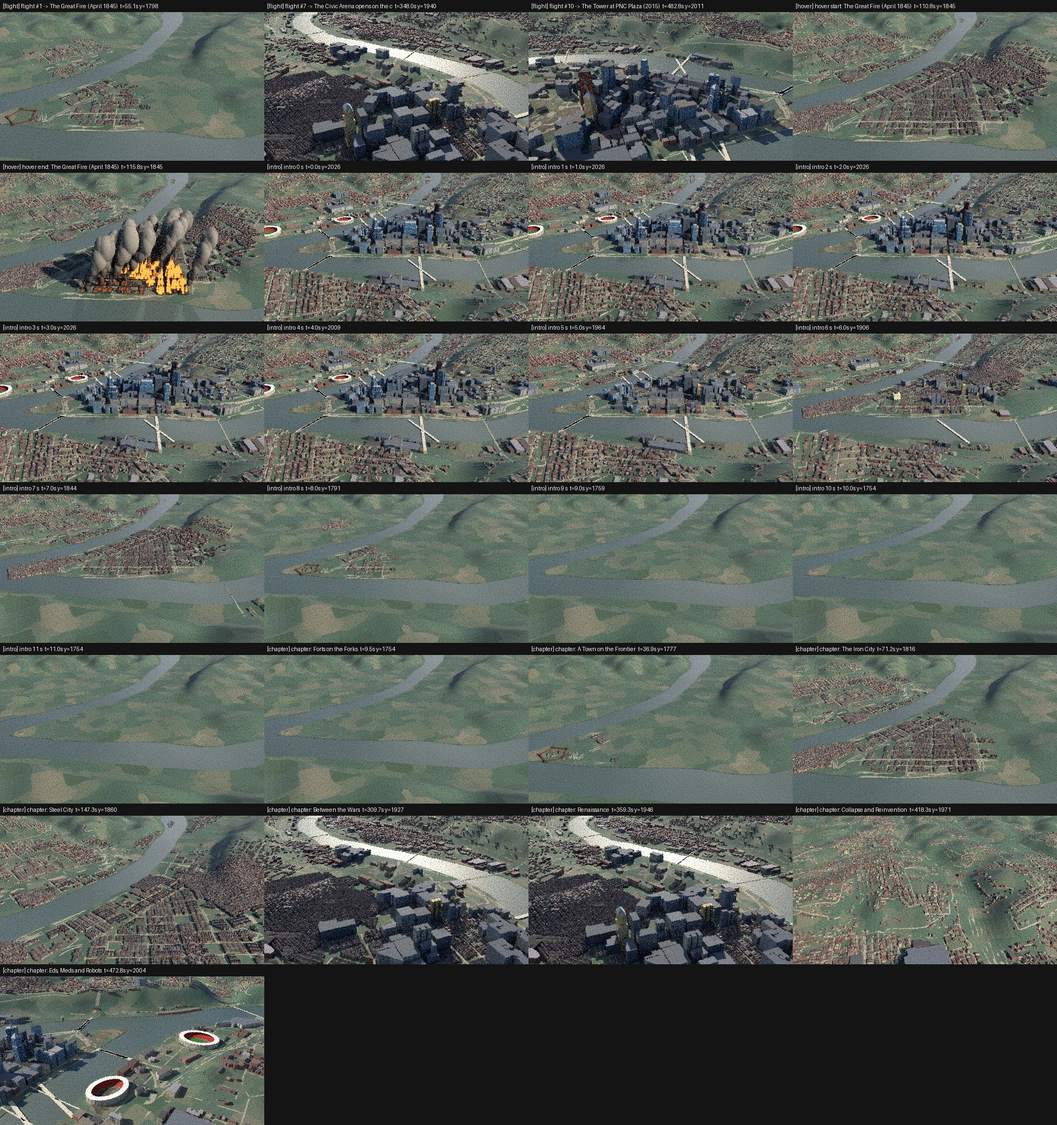
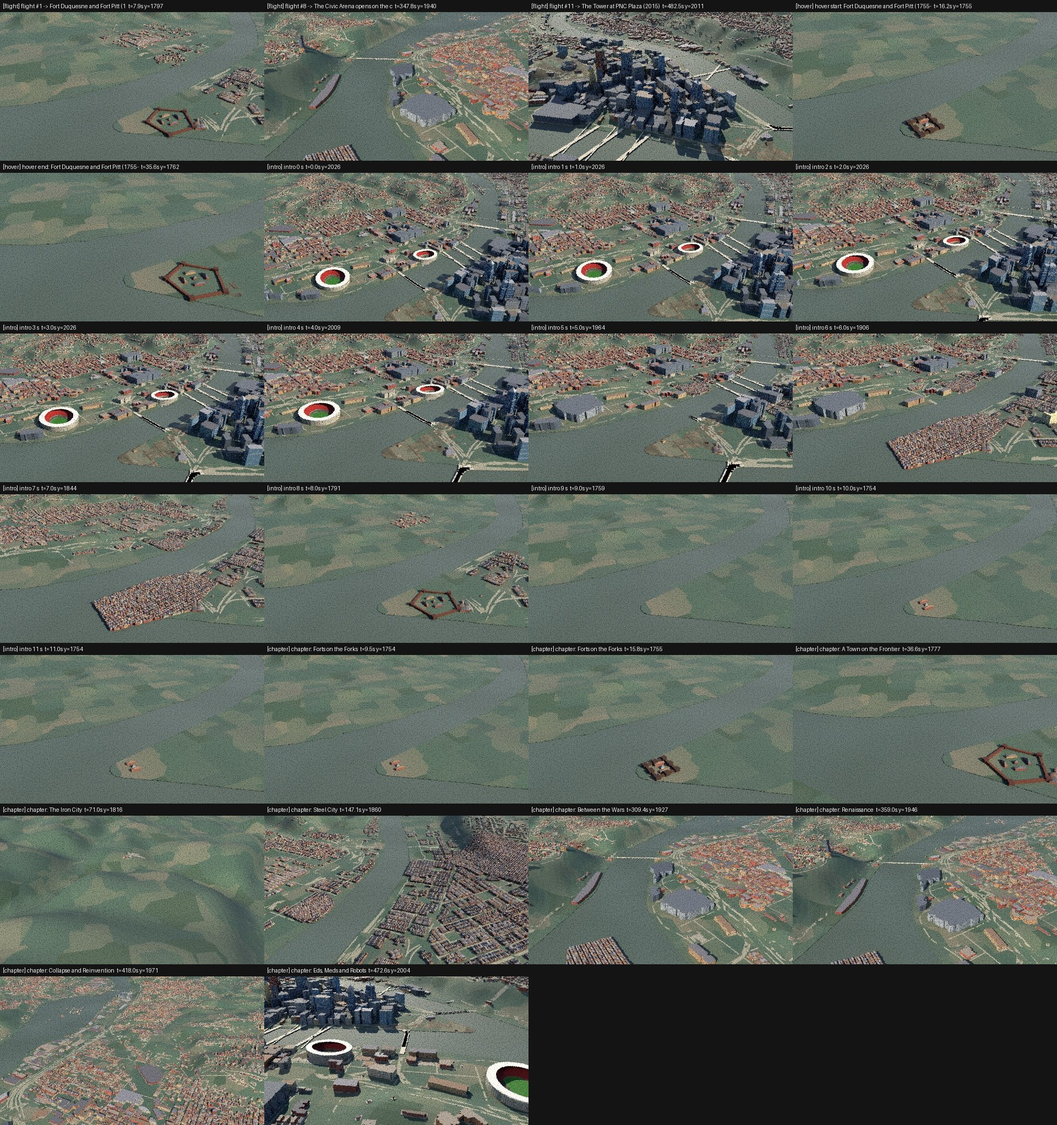
Pittsburgh: gate dossier run after fx2+colour2+cam2 (plots pending)

diff --git a/cities/pittsburgh/gate/DOSSIER.md b/cities/pittsburgh/gate/DOSSIER.md
@@ -1,54 +1,53 @@
 # GO dossier: Pittsburgh (pittsburgh)
 
-Generated by `python -m kit gate pittsburgh` on 2026-11-17 14:03 in 3127 s. **Overall: FAIL** (gate checks, including every kit qa FAIL) / kit qa alone: **FAIL**. No pod before a written GO (R3).
+Generated by `python -m kit gate pittsburgh` on 2026-11-17 15:40 in 3301 s. **Overall: FAIL** (gate checks, including every kit qa FAIL) / kit qa alone: **WARN**. No pod before a written GO (R3).
 
 ## Verdict (R2)
 
-- **FAIL** qa a) date con fonte: senza src valido (e conf != low): history.lost[0] Fort Duquesne barracks; history.lost[1] Fort Duquesne barracks; history.lost[2] Fort Duquesne storehouse; history.lost[3] Fort Pitt barracks; history.lost[4] Fort Pitt barracks; history.lost[5] Fort Pitt barracks; history.lost[6] Fort Pitt barracks; history.lost[7] Fort Pitt magazine
-- **PASS** R2 camera distance: median 1730 m (35 mm equiv.), minimum 1200; refs: Copenhagen 1397, Paris 1427
-- **PASS** R2 look angle: p95 33 deg (limit 45), 98.1% of keys under it, max 87 deg
+- **PASS** R2 camera distance: median 1745 m (35 mm equiv.), minimum 1200; refs: Copenhagen 1397, Paris 1427
+- **PASS** R2 look angle: p95 34 deg (limit 45), 98.5% of keys under it, max 85 deg
 - **PASS** R2 frozen-counter flights: 0 flight(s) >= 12 s under 0.4 yr/s
-- **PASS** plots: plots.png
-- **PASS** contact sheet: 25/25 real local frames: contact_sheet.jpg
+- **FAIL** plots not produced: No module named 'matplotlib'
+- **PASS** contact sheet: 26/26 real local frames: contact_sheet.jpg
 - **WARN** packaging draft: the left frame shows year 2026, the label says 1754: the frame must show the first year (Lyon's mistake); city json has no cover.shots: frames are a fallback (first hover / last flight second), define cover.shots
 - **WARN** banner: branch claude/pittsburgh-int has no upstream: not pushed
-- **WARN** banner: 8 uncommitted changes that the pod will not see (e.g. M cities/pittsburgh/gate/contact_sheet.jpg)
+- **WARN** banner: 1 uncommitted changes that the pod will not see (e.g. M cities/pittsburgh/gate/contact_sheet.jpg)
 
 ## 1. Contact sheet (real local CPU frames, 480x270)
 
 ![contact](contact_sheet.jpg)
 
-Frames: flight:flight #1 -> The Great Fire (April 1845)@55.1s; flight:flight #7 -> The Civic Arena opens on the c@348.0s; flight:flight #10 -> The Tower at PNC Plaza (2015)@482.8s; hover:hover start: The Great Fire (April 1845)@110.8s; hover:hover end: The Great Fire (April 1845)@115.8s; intro:intro 0 s@0.0s; intro:intro 1 s@1.0s; intro:intro 2 s@2.0s; intro:intro 3 s@3.0s; intro:intro 4 s@4.0s; intro:intro 5 s@5.0s; intro:intro 6 s@6.0s; intro:intro 7 s@7.0s; intro:intro 8 s@8.0s; intro:intro 9 s@9.0s; intro:intro 10 s@10.0s; intro:intro 11 s@11.0s; chapter:chapter: Forts on the Forks@9.5s; chapter:chapter: A Town on the Frontier@36.9s; chapter:chapter: The Iron City@71.2s; chapter:chapter: Steel City@147.3s; chapter:chapter: Between the Wars@309.7s; chapter:chapter: Renaissance@359.3s; chapter:chapter: Collapse and Reinvention@418.3s; chapter:chapter: Eds, Meds and Robots@472.8s
+Frames: flight:flight #1 -> Fort Duquesne and Fort Pitt (1@7.9s; flight:flight #8 -> The Civic Arena opens on the c@347.8s; flight:flight #11 -> The Tower at PNC Plaza (2015)@482.5s; hover:hover start: Fort Duquesne and Fort Pitt (1755-@16.2s; hover:hover end: Fort Duquesne and Fort Pitt (1755-@35.6s; intro:intro 0 s@0.0s; intro:intro 1 s@1.0s; intro:intro 2 s@2.0s; intro:intro 3 s@3.0s; intro:intro 4 s@4.0s; intro:intro 5 s@5.0s; intro:intro 6 s@6.0s; intro:intro 7 s@7.0s; intro:intro 8 s@8.0s; intro:intro 9 s@9.0s; intro:intro 10 s@10.0s; intro:intro 11 s@11.0s; chapter:chapter: Forts on the Forks@9.5s; chapter:chapter: Forts on the Forks@15.8s; chapter:chapter: A Town on the Frontier@36.6s; chapter:chapter: The Iron City@71.0s; chapter:chapter: Steel City@147.1s; chapter:chapter: Between the Wars@309.4s; chapter:chapter: Renaissance@359.0s; chapter:chapter: Collapse and Reinvention@418.0s; chapter:chapter: Eds, Meds and Robots@472.6s
 
 ## 2. Camera altitude, distance, pitch
 
-![plots](plots.png)
+**NOT PRODUCED**
 
 ![path](drone_path.png)
 
-Median distance 1730 m (>= 1200); pitch p95 33 deg (< 45); max pitch 87 deg.
+Median distance 1745 m (>= 1200); pitch p95 34 deg (< 45); max pitch 85 deg.
 
 ## 3. Flight table
 
 | # | start s | end s | dur s | years/s | median dist m | max alt m | max pitch deg | to | flag |
 |---|---|---|---|---|---|---|---|---|---|
-| 1 | 0.0 | 110.2 | 110.2 | 1.64 | 1717 | 1047 | 28 | The Great Fire (April 1845) | (opening) |
-| 2 | 116.2 | 135.2 | 19.0 | 0.64 | 1945 | 1003 | 28 | 939 factories (1857) |  |
-| 3 | 146.4 | 164.6 | 18.2 | 0.70 | 1864 | 1209 | 82 | The Monongahela Incline (1870) |  |
-| 4 | 169.6 | 195.0 | 25.4 | 0.48 | 1729 | 799 | 71 | The Smithfield Street Bridge (1883 |  |
-| 5 | 200.0 | 209.9 | 9.9 | 0.45 | 1326 | 754 | 61 | The Allegheny County Courthouse (1 |  |
-| 6 | 214.9 | 290.4 | 75.6 | 0.41 | 1783 | 753 | 28 | The Hill District, a center of Bla |  |
-| 7 | 296.4 | 399.6 | 103.1 | 0.40 | 1687 | 703 | 28 | The Civic Arena opens on the clear |  |
-| 8 | 405.6 | 447.8 | 42.2 | 0.52 | 1796 | 1034 | 60 | PPG Place and the second Renaissan |  |
-| 9 | 454.1 | 466.1 | 12.1 | 1.26 | 1494 | 836 | 87 | Three Rivers Stadium is imploded;  |  |
-| 10 | 472.1 | 493.4 | 21.3 | 0.66 | 1796 | 803 | 28 | The Tower at PNC Plaza (2015) |  |
-| 11 | 498.4 | 575.6 | 77.1 | 0.13 | 5059 | 3515 | 28 | finale | (finale) |
+| 1 | 0.0 | 15.7 | 15.7 | 17.23 | 1015 | 1069 | 27 | Fort Duquesne and Fort Pitt (1755- | (opening) |
+| 2 | 36.1 | 110.0 | 73.9 | 1.12 | 1147 | 893 | 35 | The Great Fire (April 1845) |  |
+| 3 | 116.0 | 135.0 | 19.0 | 0.64 | 1988 | 914 | 27 | 939 factories (1857) |  |
+| 4 | 146.2 | 164.4 | 18.2 | 0.70 | 1630 | 839 | 54 | The Monongahela Incline (1870) |  |
+| 5 | 169.4 | 194.8 | 25.4 | 0.48 | 1674 | 700 | 29 | The Smithfield Street Bridge (1883 |  |
+| 6 | 199.8 | 209.6 | 9.9 | 0.45 | 1796 | 801 | 28 | The Allegheny County Courthouse (1 |  |
+| 7 | 214.6 | 290.2 | 75.6 | 0.41 | 1849 | 842 | 27 | The Hill District, a center of Bla |  |
+| 8 | 296.2 | 399.3 | 103.1 | 0.40 | 1774 | 752 | 46 | The Civic Arena opens on the clear |  |
+| 9 | 405.3 | 447.5 | 42.2 | 0.52 | 1880 | 1284 | 85 | PPG Place and the second Renaissan |  |
+| 10 | 453.8 | 465.9 | 12.1 | 1.26 | 1265 | 1079 | 81 | Three Rivers Stadium is imploded;  |  |
+| 11 | 471.9 | 493.2 | 21.3 | 0.66 | 1777 | 864 | 27 | The Tower at PNC Plaza (2015) |  |
+| 12 | 498.2 | 575.3 | 77.1 | 0.13 | 5058 | 3520 | 53 | finale | (finale) |
 
 ## 4. kit qa
 
-Result: **FAIL** (full report: qa_REPORT.md)
+Result: **WARN** (full report: qa_REPORT.md)
 
-- **FAIL** a) date con fonte: senza src valido (e conf != low): history.lost[0] Fort Duquesne barracks; history.lost[1] Fort Duquesne barracks; history.lost[2] Fort Duquesne storehouse; history.lost[3] Fort Pitt barracks; history.lost[4] Fort Pitt barracks; history.lost[5] Fort Pitt barracks; history.lost[6] Fort Pitt barracks; history.lost[7] Fort Pitt magazine
 - **WARN** d) 1800: 2 viali larghi gia' visibili (se aperti sventrando: gutting): #1 885x144 m a (40.45166,-80.00373); #2 846x112 m a (40.44093,-80.00479)
 - **WARN** d) 1854: 2 corridoi accettati (FAIL -> WARN): #0 475x31 m a (40.45604,-79.99801) — modern expressway/rail strip along the Allegheny River bank, outside the 1854 town: open riverbank in 1854; accepted; #0 856x74 m a (40.43406,-79.99067) — modern riverfront strip (Carson Street, Monongahela bank) between the South Side zone and the river: open bank in 1854; accepted
 - **WARN** d) 1854: 60 aree vuote allungate: #1 278x55 m a (40.47285,-80.01102); #2 226x45 m a (40.47303,-80.00989); #3 126x24 m a (40.47332,-80.00824); #4 289x38 m a (40.47209,-80.01133); #5 745x65 m a (40.47028,-80.00517); #6 143x30 m a (40.47102,-80.01329) — corridoi_1854.png
@@ -56,18 +55,18 @@ Result: **FAIL** (full report: qa_REPORT.md)
 - **WARN** d) 1900: 99 aree vuote allungate: #1 130x25 m a (40.47462,-80.02731); #2 277x49 m a (40.47285,-80.01097); #3 193x38 m a (40.47308,-80.00989); #4 126x24 m a (40.47332,-80.00824); #5 244x38 m a (40.47187,-80.01130); #6 555x64 m a (40.46957,-80.00495) — corridoi_1900.png
 - **WARN** d) 1900: 40 viali larghi gia' visibili (se aperti sventrando: gutting): #100 2269x55 m a (40.45014,-79.98132); #101 2249x205 m a (40.45584,-80.00491); #102 1995x57 m a (40.46476,-80.02230); #103 1365x51 m a (40.42973,-79.99898); #104 1019x71 m a (40.46947,-80.01161)
 - **WARN** d) 1950: 100 aree vuote allungate: #1 130x25 m a (40.47462,-80.02731); #2 277x49 m a (40.47285,-80.01097); #3 193x38 m a (40.47308,-80.00989); #4 126x24 m a (40.47332,-80.00824); #5 244x38 m a (40.47187,-80.01130); #6 555x64 m a (40.46957,-80.00495) — corridoi_1950.png
-- **WARN** e) evento forte entro 45 s: primo a 110.2 s
+- **WARN** e) drone: grafico non fatto: No module named 'matplotlib'
 
 ## 5. Expected pod banner (quote it in the GO message)
 
 ```
-VERSIONE: 55b723a Merge commit '388a552' into claude/pittsburgh-int | schedule_pittsburgh: 588 s, lens 32.0
+VERSIONE: 4a94358 Pittsburgh: regenerate qa REPORT after merges | schedule_pittsburgh: 588 s, lens 32.0
 ```
 
 Branch `claude/pittsburgh-int`. The GO message must contain, in ONE message: GPU check (`cuInit` = 0), `git pull` + this banner to verify, the launch command, the live progress one-liner, covers, and the condition to switch off (R3).
 
 - WARN branch claude/pittsburgh-int has no upstream: not pushed
-- WARN 8 uncommitted changes that the pod will not see (e.g. M cities/pittsburgh/gate/contact_sheet.jpg)
+- WARN 1 uncommitted changes that the pod will not see (e.g. M cities/pittsburgh/gate/contact_sheet.jpg)
 
 ## 6. Cost (measured basis only, R4)
 

diff --git a/cities/pittsburgh/gate/qa_REPORT.md b/cities/pittsburgh/gate/qa_REPORT.md
@@ -1,10 +1,10 @@
 # QA pittsburgh
 
-Generato da `python -m kit.qa` il 2026-11-17 13:11. Esito complessivo: **FAIL**
+Generato da `python -m kit.qa` il 2026-11-17 14:45. Esito complessivo: **WARN**
 
 | Sezione | Esito |
 |---|---|
-| a) Story e fonti | FAIL |
+| a) Story e fonti | PASS |
 | b) DATA | PASS |
 | d) Corridoi vuoti | WARN |
 | e) Costo e schedule | WARN |
@@ -13,8 +13,7 @@ Generato da `python -m kit.qa` il 2026-11-17 13:11. Esito complessivo: **FAIL**
 
 - **PASS** chiavi city
 - **PASS** 32 fonti
-- **FAIL** date con fonte
-  - senza src valido (e conf != low): history.lost[0] Fort Duquesne barracks; history.lost[1] Fort Duquesne barracks; history.lost[2] Fort Duquesne storehouse; history.lost[3] Fort Pitt barracks; history.lost[4] Fort Pitt barracks; history.lost[5] Fort Pitt barracks; history.lost[6] Fort Pitt barracks; history.lost[7] Fort Pitt magazine
+- **PASS** date con fonte
 
 ## b) DATA
 
@@ -60,41 +59,41 @@ Generato da `python -m kit.qa` il 2026-11-17 13:11. Esito complessivo: **FAIL**
 ## e) Costo e schedule
 
 - **PASS** costo dei cambi (7 s)
-  - oggetti citta' 2338, cambi in tutto il video 78376, max in un fotogramma 1016 (~12 s), costo dei soli cambi ~0.26 h (budget 1.0 h)
+  - oggetti citta' 2338, cambi in tutto il video 78513, max in un fotogramma 1016 (~12 s), costo dei soli cambi ~0.26 h (budget 1.0 h)
 - **PASS** drone: velocita' massima
-  - 214 m/s (limite 250), mediana 6
+  - 178 m/s (limite 250), mediana 7
 - **PASS** drone: accelerazione massima
-  - 123 m/s2 (limite 120), 99% 46
+  - 111 m/s2 (limite 120), 99% 57
 - **PASS** drone: jerk massimo
-  - 79 m/s3 (limite 200), 99% 29
+  - 100 m/s3 (limite 200), 99% 38
 - **PASS** drone: distanza minima da terreno e tetti
-  - 637 m (soglia 24); dal solo terreno 700 m
+  - 274 m (soglia 24); dal solo terreno 274 m
 - **PASS** drone: discontinuita' (target 0, tagli dichiarati: 0)
   - 0 salti
 - **PASS** drone: soste tolte per tempo
-  - 0 tolte, 10 tenute, 0 solo sorvolate; hover 62 s, volo 498 s; 
+  - 0 tolte, 11 tenute, 0 solo sorvolate; hover 82 s, volo 478 s; 
 - **PASS** drone: hover quasi fermo
-  - v max in hover 8.8 m/s (soglia 12; esclusi 30% o 1,5 s a ogni estremo)
+  - v max in hover 8.1 m/s (soglia 12; esclusi 30% o 1,5 s a ogni estremo)
 - **PASS** drone: voli con gli anni quasi fermi
   - nessun volo >= 12 s sotto 0,4 anni/s (fuori da apertura e finale)  [uniscili: trasforma una delle due soste vicine in cartello]
 - **PASS** drone: monumenti visibili durante il loro hover
   - ogni monumento bersaglio ha il corpo costruito a meta' hover  [Confluences: il corpo compariva a fine hover]
 - **PASS** drone: distanza della camera
-  - mediana 1730 m equivalenti a 35 mm (obiettivo 32 mm); riferimenti: Copenaghen 1397, Parigi 1427, Madrid 2538, Lione 930 (giudicata troppo vicina); soglia 1200
+  - mediana 1745 m equivalenti a 35 mm (obiettivo 32 mm); riferimenti: Copenaghen 1397, Parigi 1427, Madrid 2538, Lione 930 (giudicata troppo vicina); soglia 1200
 - **PASS** drone: esattezza anni
   - soste: y0 e y1 esatti sulla finestra di hover; cartelli fuori hover esatti; cartelli durante un hover e voli: anni flessibili (il contatore scorre fra le voci)
-- **PASS** drone: grafico del percorso
-  - qa/drone_path.png
+- **WARN** drone: grafico non fatto
+  - No module named 'matplotlib'
 - **PASS** ritmo: nessun vuoto > 15 s senza stimolo nuovo
-  - vuoto massimo 14.5 s (79-93 s)
+  - vuoto massimo 14.5 s (78-93 s)
 - **PASS** ritmo: anni/s per minuto
-  - 0:00  3.70 | 1:00  0.73 | 2:00  0.50 | 3:00  0.39 | 4:00  0.37 | 5:00  0.38 | 6:00  0.41 | 7:00  0.65 | 8:00  0.26 | 9:00  0.02
-- **PASS** 10 soste ben formate
+  - 0:00  3.69 | 1:00  0.72 | 2:00  0.50 | 3:00  0.40 | 4:00  0.36 | 5:00  0.38 | 6:00  0.41 | 7:00  0.67 | 8:00  0.25 | 9:00  0.02
+- **PASS** 11 soste ben formate
 - **PASS** soste ordinate e non sovrapposte
 - **PASS** didascalie "Titolo (data)"
 - **PASS** soste e cartelli sugli anni della story (0,01)
-- **WARN** evento forte entro 45 s
-  - primo a 110.2 s
+- **PASS** evento forte entro 45 s
+  - primo a 15.7 s
 
 ## Immagini
 
